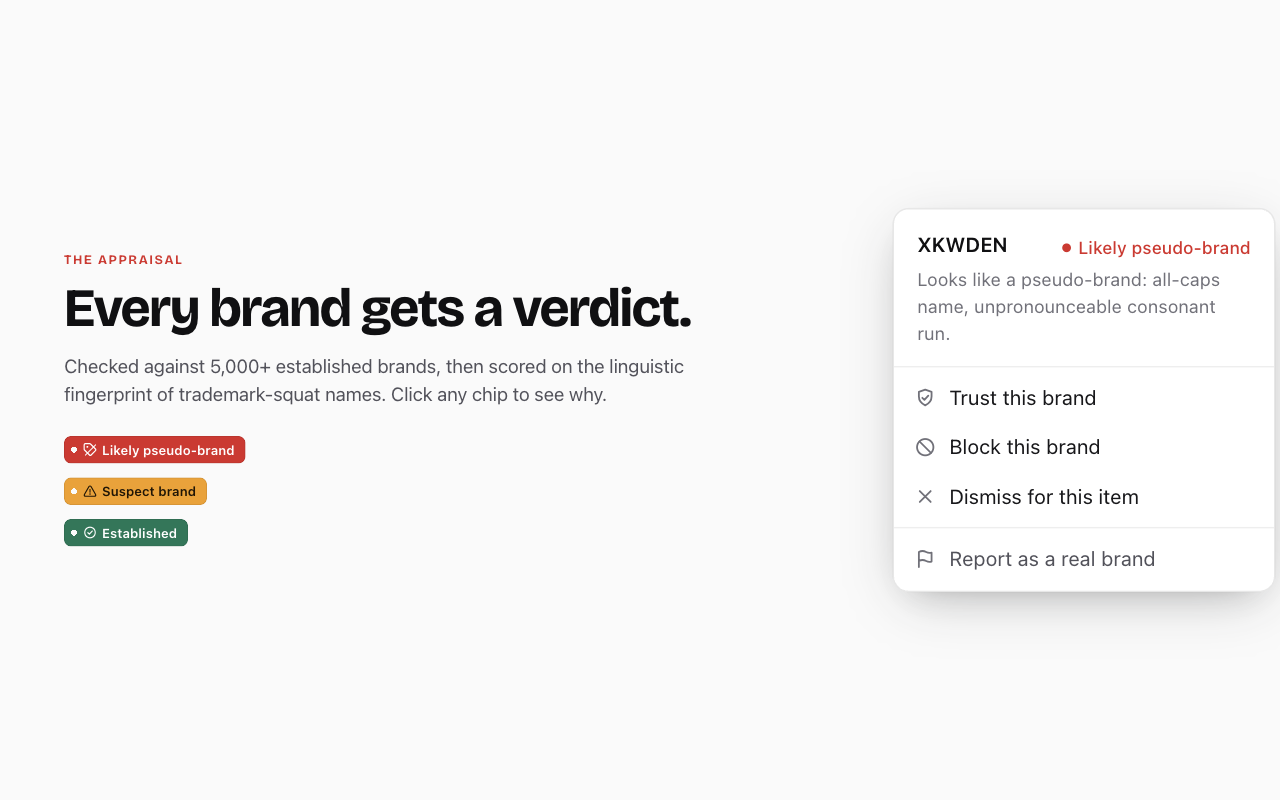
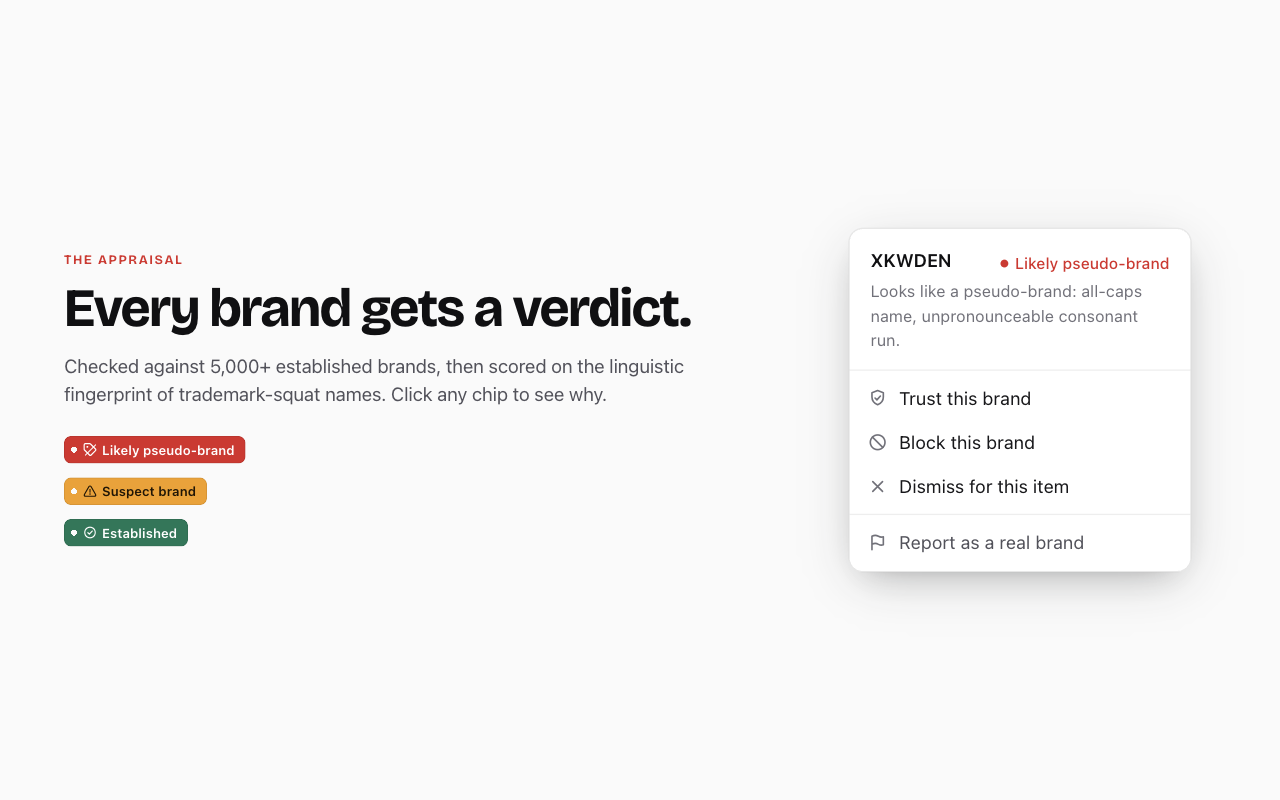
Store screenshots: give scaled mocks breathing room
scale() transforms overflow their layout box, so the mocks were crowding
the frame edges. Eased the scales and added compensating margins.

Changed region(s): [[0.6562, 0.2812, 0.9688, 0.7812]]

diff --git a/store-assets/frames/shot-4.html b/store-assets/frames/shot-4.html
@@ -5,7 +5,7 @@
   body{width:1280px;height:800px}
   .split{display:flex;gap:72px;align-items:center;flex:1}
   .stack{display:flex;flex-direction:column;gap:18px;align-items:center}
-  .menu{transform:scale(1.3);transform-origin:center}
+  .menu{transform:scale(1.2);transform-origin:center}
   .flow{display:flex;align-items:center;gap:14px;margin-top:30px;font:600 14px/1.4 var(--sans);color:var(--ink-2)}
   .flow .step-chip{background:#fff;border:1px solid var(--line);border-radius:10px;padding:10px 16px;box-shadow:0 1px 2px rgba(0,0,0,.05)}
   .flow svg{width:16px;height:16px;color:var(--ink-3)}
@@ -26,7 +26,7 @@
         <span class="step-chip">Everyone's protected</span>
       </div>
     </div>
-    <div class="stack">
+    <div class="stack" style="margin-right:48px">
       <div class="menu">
         <div class="menu-head"><span class="b">Halverson &amp; Sons</span><span class="menu-verdict amber">Suspect brand</span></div>
         <div class="menu-reason">Unrecognized brand: not on any list yet.</div>

diff --git a/store-assets/frames/shot-2.html b/store-assets/frames/shot-2.html
@@ -4,7 +4,7 @@
 <style>
   body{width:1280px;height:800px}
   .split{display:flex;gap:72px;align-items:center;flex:1}
-  .panel{transform:scale(1.28);transform-origin:center}
+  .panel{transform:scale(1.2);transform-origin:center;margin-right:44px}
 </style>
 </head><body>
 <div class="frame">

diff --git a/store-assets/frames/shot-3.html b/store-assets/frames/shot-3.html
@@ -4,7 +4,7 @@
 <style>
   body{width:1280px;height:800px}
   .split{display:flex;gap:72px;align-items:center;flex:1}
-  .menu{transform:scale(1.45);transform-origin:center}
+  .menu{transform:scale(1.3);transform-origin:center;margin-right:64px}
   .chips{display:flex;flex-direction:column;gap:14px;align-items:flex-start;margin-top:28px}
 </style>
 </head><body>